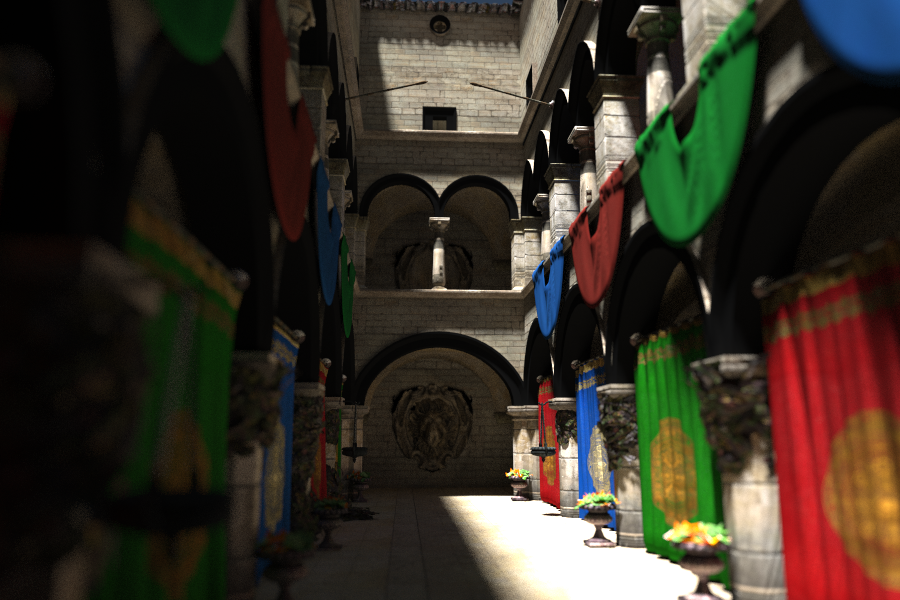
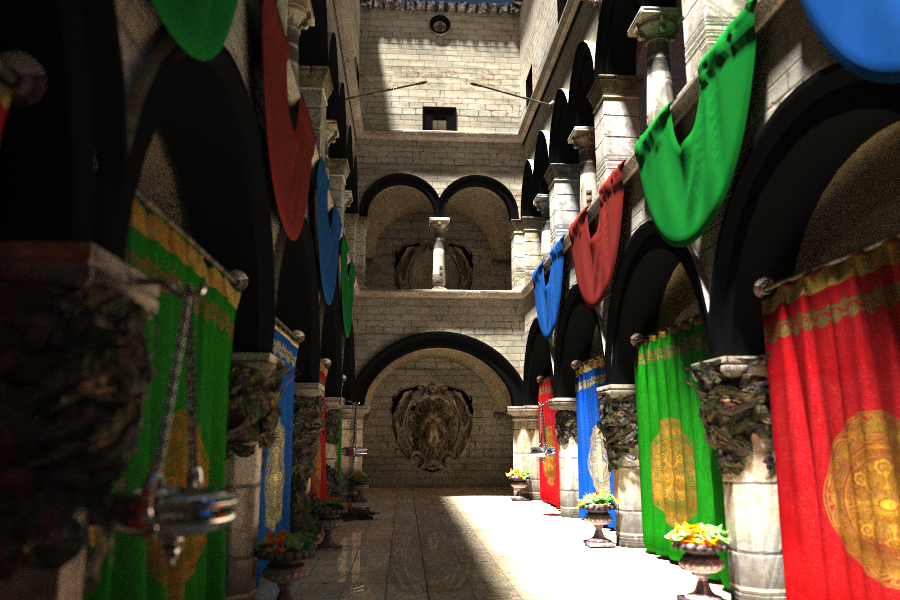
Changed sponza model to include reflection. Ugly hacks to reduce noise.

diff --git a/tests/test7.cpp b/tests/test7.cpp
@@ -39,6 +39,7 @@ int main()
 	int id_skybox = pt.add_cubemap(&cubemap);
 	TexturedSkyBox skybox(id_skybox);
 	pt.set_sky(&skybox);
+
 	pt.add_sunlight({ 0.3f, 1.0f, 0.2f }, 0.05, { 2000.0f, 2000.0f, 2000.0f });
 
 	glm::mat4x4 identity = glm::identity<glm::mat4x4>();
@@ -51,7 +52,7 @@ int main()
 	glm::vec3 light_pos = cam_pos - cam_dir * 50.0f;
 
 	pt.add_geometry(obj.get_geo());
-	pt.set_camera(cam_pos, cam_look_pos, { 0.0f, 1.0f, 0.0f }, 45.0f, 10.0f, 1500.0f);
+	pt.set_camera(cam_pos, cam_look_pos, { 0.0f, 1.0f, 0.0f }, 45.0f, 3.0f, 1500.0f);
 
 	//SphereLight light1(light_pos, 10.0f, { 100.0f, 100.0f, 100.0f });
 	//pt.add_geometry(&light1);

diff --git a/README.md b/README.md
@@ -7,7 +7,7 @@ Here, I'm trying to make it more extendable and reusable, so I can have more fun
 
 <img src="gallery/sponza.png" width="900px">
 
-The "sponza" model, 900x600x1000 rays, rendered in 13.5 seconds using RTX 2060 super.
+The "sponza" model, 900x600x1000 rays, rendered in 19.7 seconds using RTX 2060 super.
 
 ## Building and Running
 
